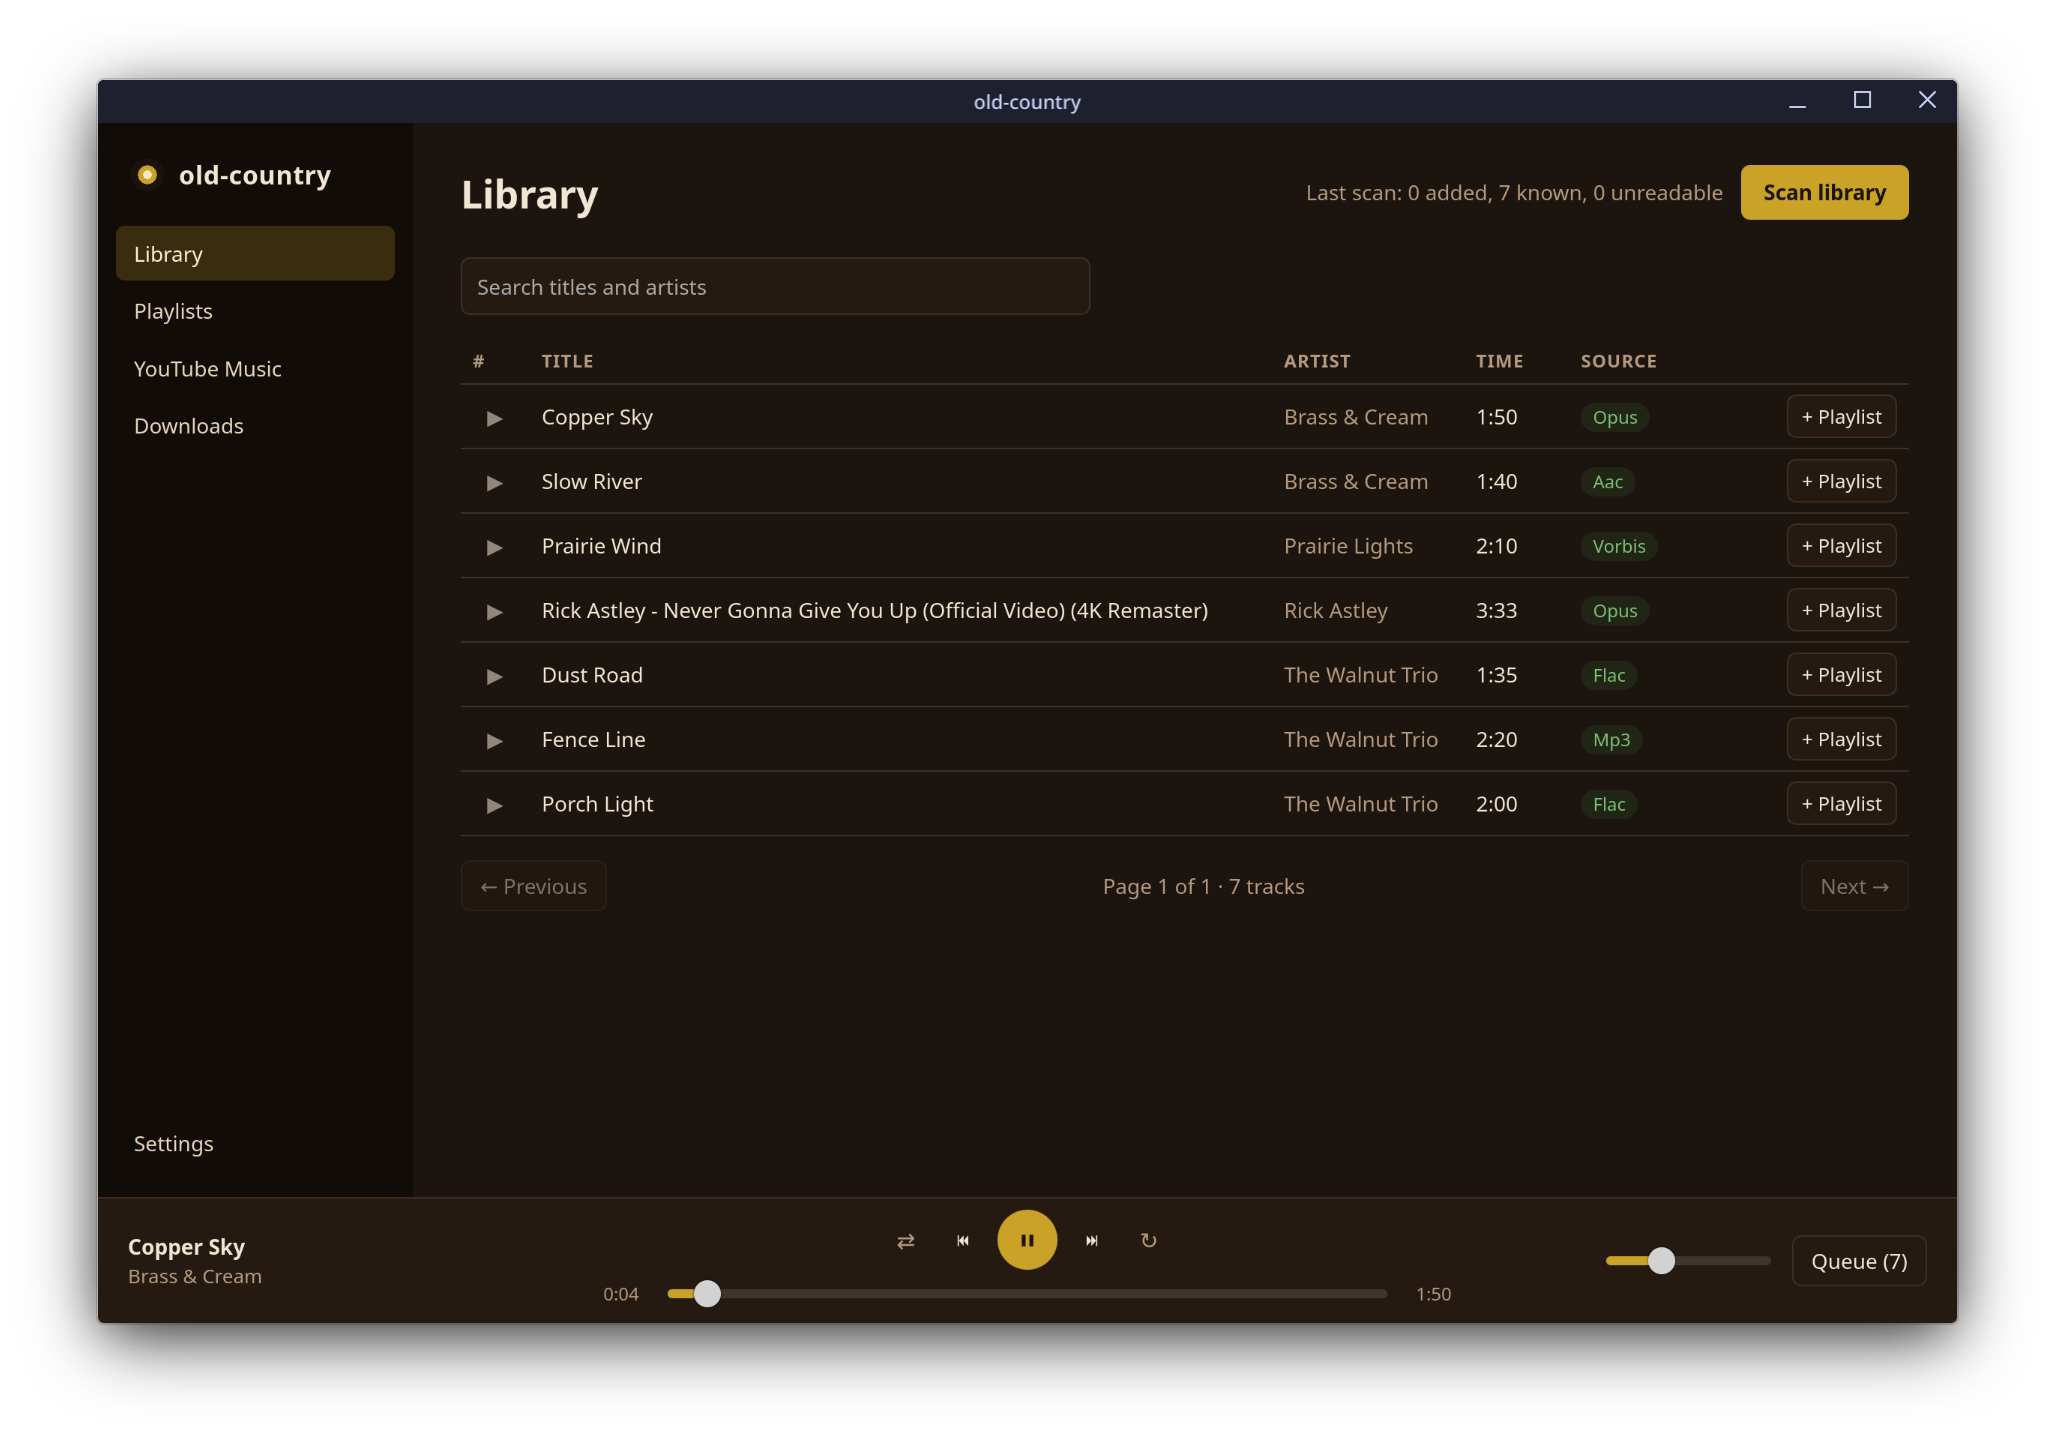
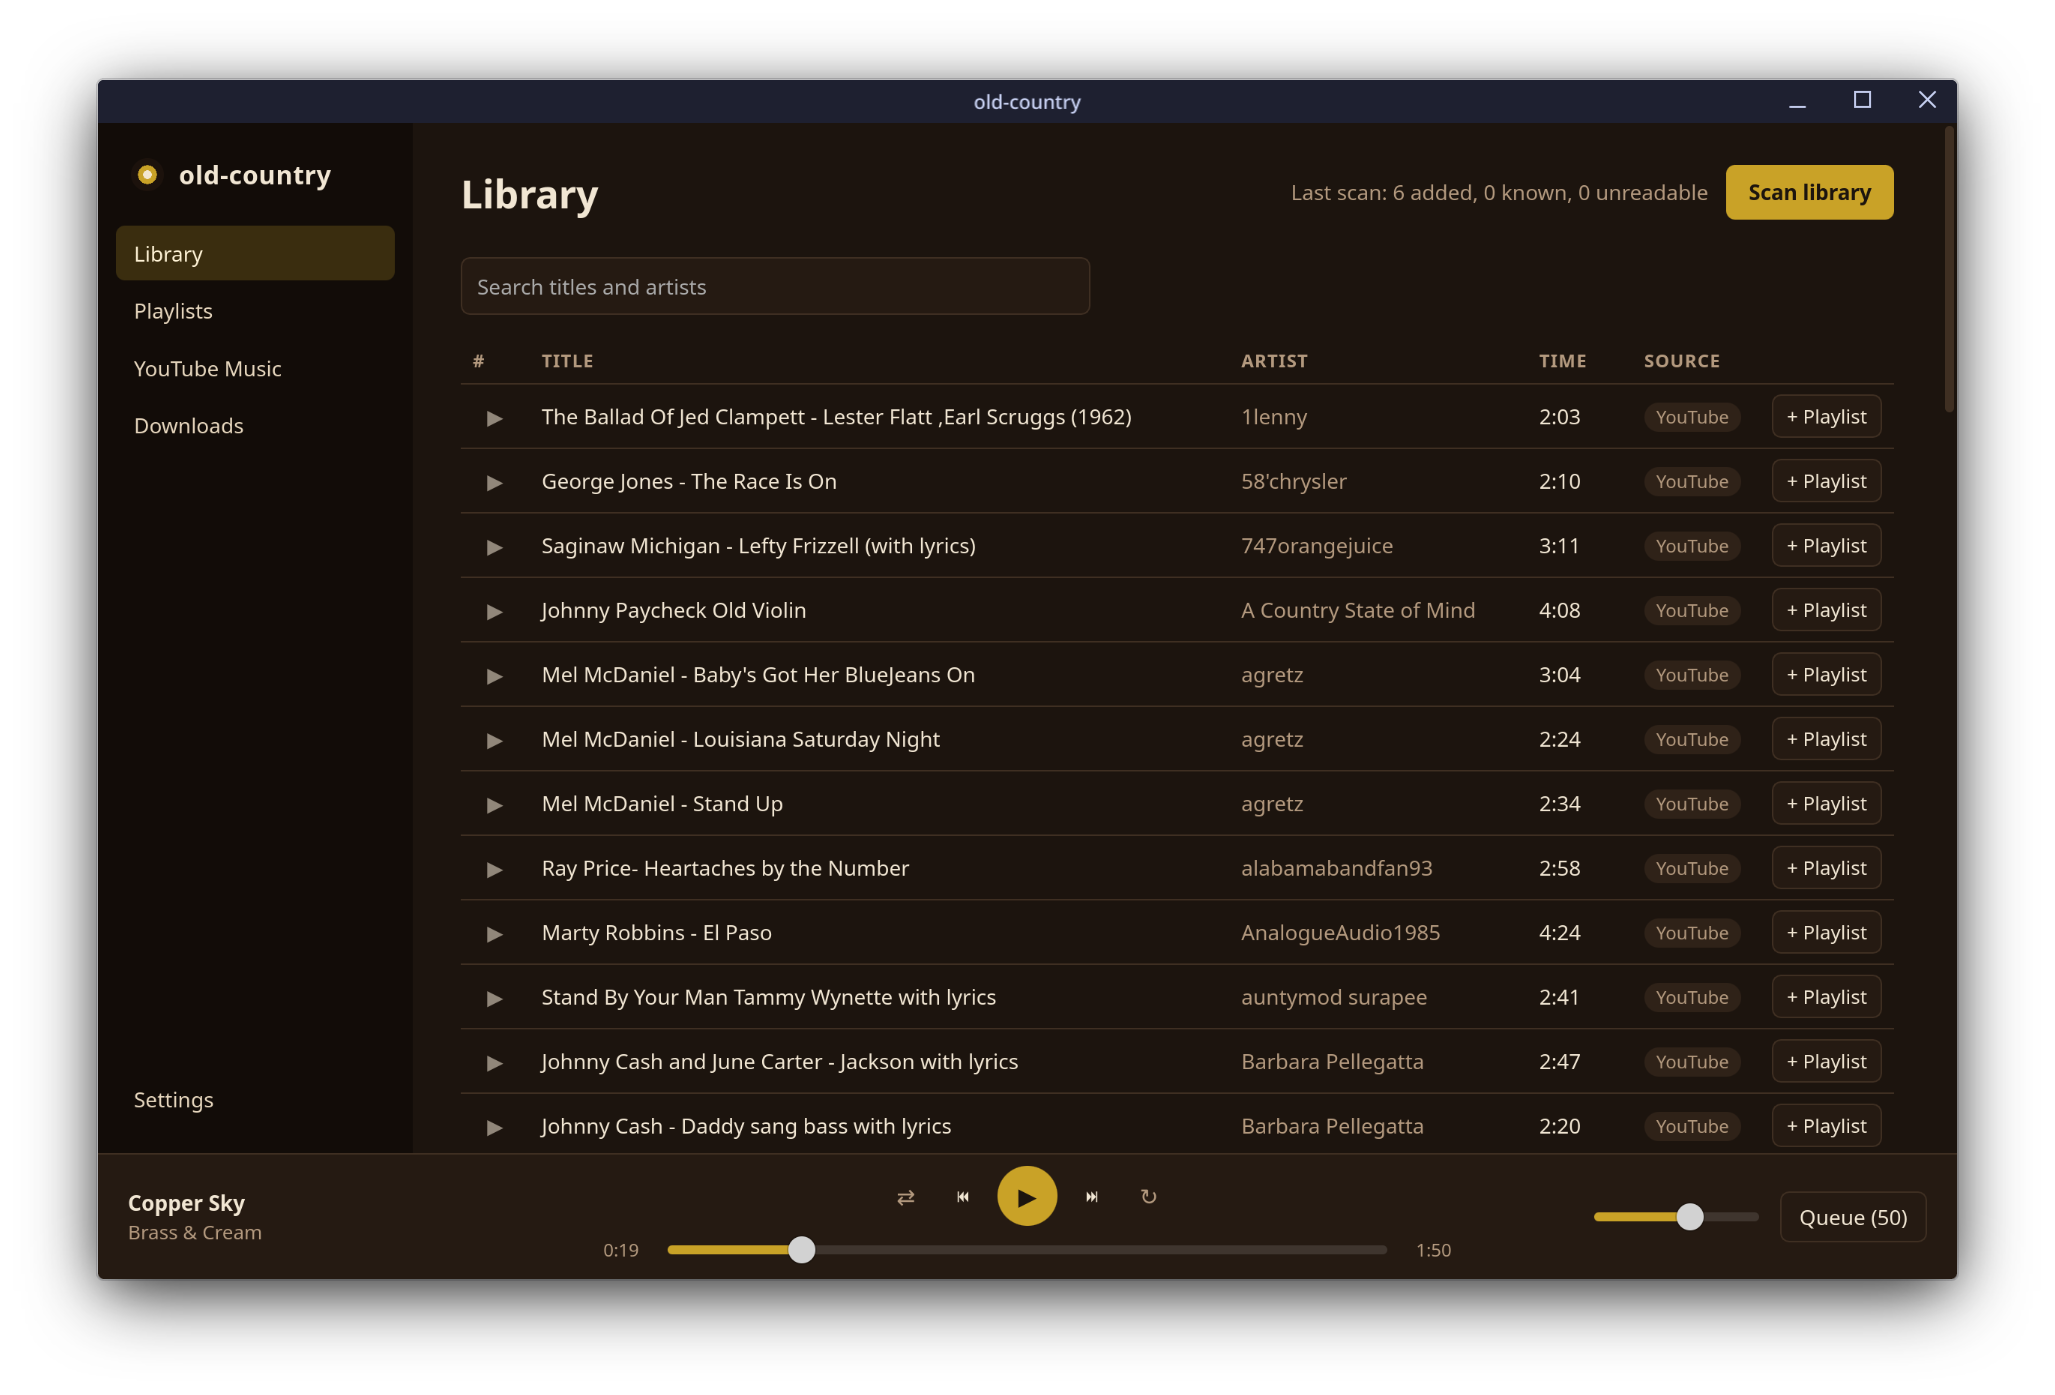
Refresh README screenshots and document playlist sync
New screenshots of the current UI (imported playlist with sync, playlists
with the YouTube badge, downloads, narrow window), a features list, and a
section on how playlist sync works. Long card descriptions now wrap.

diff --git a/desktop/app/styles/app.css b/desktop/app/styles/app.css
@@ -193,7 +193,7 @@ tr:hover .row-play { opacity: 1; color: var(--accent-strong); }
 .cards a { display: grid; gap: 4px; padding: 16px; border: 1px solid var(--line); border-radius: var(--radius); background: var(--surface); color: var(--text); text-decoration: none; }
 .cards a:hover { border-color: var(--accent); }
 .card-title { font-weight: 600; }
-.card-desc { font-size: 13px; color: var(--muted); }
+.card-desc { font-size: 13px; color: var(--muted); overflow-wrap: anywhere; }
 
 .results { list-style: none; padding: 0; margin: 0; display: grid; gap: 8px; }
 .result { display: flex; align-items: center; gap: 14px; padding: 10px; border: 1px solid var(--line); border-radius: var(--radius); background: var(--surface); }

diff --git a/README.md b/README.md
@@ -4,7 +4,10 @@ A personal music player: your offline library plus YouTube Music, in one place.
 
 - **Library**: scans your music folders (FLAC, MP3, AAC/ALAC, Opus, Vorbis, WAV), reads tags, and streams files with seeking.
 - **Playlists**: ordered, editable, duplicates allowed.
-- **YouTube Music**: search, play, download for offline, and import playlists or your liked songs. Importing a playlist again syncs it: songs added on YouTube since are appended, and your renames, reordering and removals are kept.
+- **YouTube Music**: search, play, download for offline, and import playlists or your liked songs.
+- **Playlist sync**: an imported playlist stays linked to YouTube Music. The server checks it every 6 hours (or when you press **Sync**) and appends songs added on YouTube since; your renames, reordering and removals are kept.
+- **Downloads**: one song or a whole playlist ("Download all"), queued in the database so they survive restarts, paced so YouTube doesn't block you, and songs YouTube refuses are remembered to retry later.
+- **Desktop app**: native playback with media keys, shuffle and repeat, an offline audio cache, a layout that fits a narrow window, and one window only (starting it again brings the open one forward).
 
 | Part | Stack | Status |
 |---|---|---|
@@ -19,12 +22,14 @@ The backend runs on a home server; the desktop app talks to it over the LAN.
 
 | | |
 |---|---|
-| ![A playlist with find-in-playlist and reordering](docs/screenshots/playlist.png) | ![Song page: format, quality, file, and the playlists it's in](docs/screenshots/song.png) |
-| **Playlists**: find within a playlist, reorder, play all | **Song page**: where it plays from, quality, file, playlists |
-| ![YouTube Music search results](docs/screenshots/youtube.png) | ![Queue drawer in shuffle order with repeat-all on](docs/screenshots/queue-shuffle.png) |
-| **YouTube Music**: search, play, queue, download | **Queue**: shuffle order; songs already heard are dimmed |
-| ![Settings with the logs panel](docs/screenshots/settings.png) | |
-| **Settings**: server address, cache size, where the logs are | |
+| ![An imported playlist: synced with YouTube Music, Download all, find and filter](docs/screenshots/playlist-sync.png) | ![Playlists, with a badge on the ones linked to YouTube Music](docs/screenshots/playlists.png) |
+| **Imported playlist**: when it last synced, Sync now, Download all, find and "Not downloaded" filter | **Playlists**: the YouTube badge marks the ones that sync |
+| ![Downloads page with the queue's progress](docs/screenshots/downloads.png) | ![YouTube Music search results](docs/screenshots/youtube.png) |
+| **Downloads**: the queue, what's done, what YouTube refused | **YouTube Music**: search, play, queue, download, import |
+| ![Queue drawer in shuffle order with repeat-all on](docs/screenshots/queue-shuffle.png) | ![Song page: format, quality, file, and the playlists it's in](docs/screenshots/song.png) |
+| **Queue**: shuffle order, repeat-all on | **Song page**: where it plays from, quality, file, playlists |
+| ![Settings with the logs panel](docs/screenshots/settings.png) | ![The app in a narrow window](docs/screenshots/narrow.png) |
+| **Settings**: server address, cache size, where the logs are | **Narrow window**: the sidebar becomes a top bar |
 
 ## Running the backend
 
@@ -234,6 +239,15 @@ The download queue is a table in Postgres, worked through one song at a time by 
 - **Survives restarts.** Queued songs stay queued. A song interrupted by a normal shutdown goes back in the queue; one interrupted by a crash is taken again when its *lease* runs out (a worker owns a song for twice the yt-dlp timeout plus two minutes). A song that never finishes is given up after 3 tries.
 - **Easy on YouTube.** A pause between songs, and when YouTube rate limits ("429", "confirm you're not a bot") the whole queue rests and resumes by itself. The Downloads page says until when.
 - **Remembers refusals.** A song YouTube won't give (Premium only, private, removed, age or region restricted) is marked on the track. "Download all" on a playlist skips those; "Retry skipped" tries them again, e.g. after getting Premium or adding cookies.
+
+**Playlist sync.** An imported playlist remembers its YouTube list id and every video it has taken from it. A sync is the same import again, and it adds only videos the playlist has never taken, so:
+
+- songs added on YouTube are appended, in YouTube's order;
+- a song you removed here stays removed, even while it's still on YouTube;
+- a song removed on YouTube stays here (it's yours now, and may be downloaded);
+- the name, description and order you gave it are kept.
+
+A background service checks every 15 minutes for linked playlists last synced more than `YouTubeMusic:PlaylistSyncInterval` ago (6 hours; `00:00:00` turns it off) and syncs them one at a time. It rests together with the download queue when YouTube rate limits, and after a failure (say, the playlist was deleted on YouTube) it leaves that playlist alone for one interval. Liked songs (`LM`) sync only when `YouTubeMusic:CookiesFile` is set. The app's **Sync** button (`POST /api/youtube-music/playlists/{id}/sync`) does it at once.
 
 Keeping YouTube playback steady:
 
